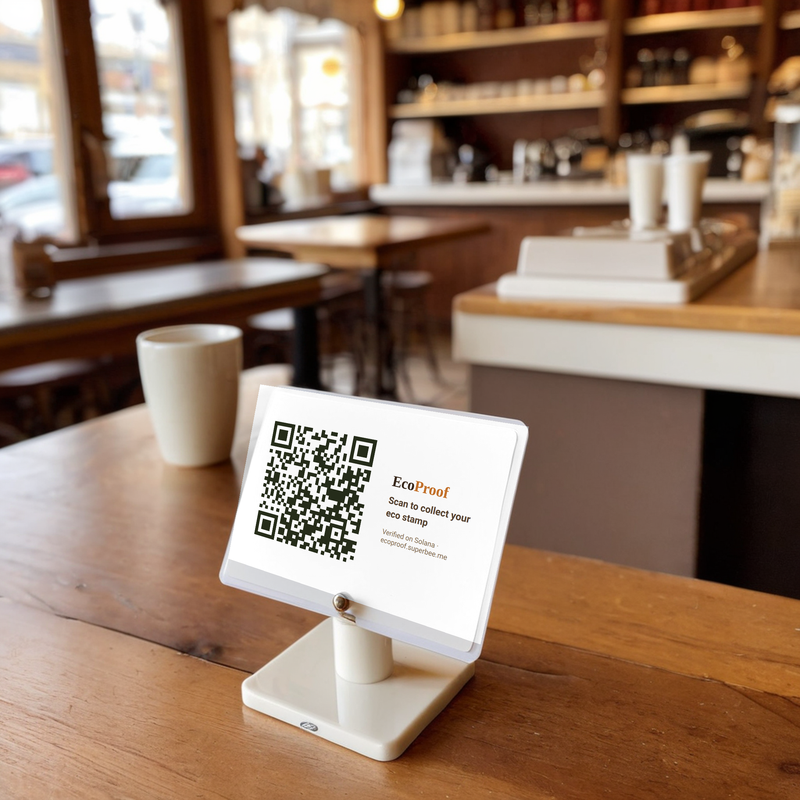
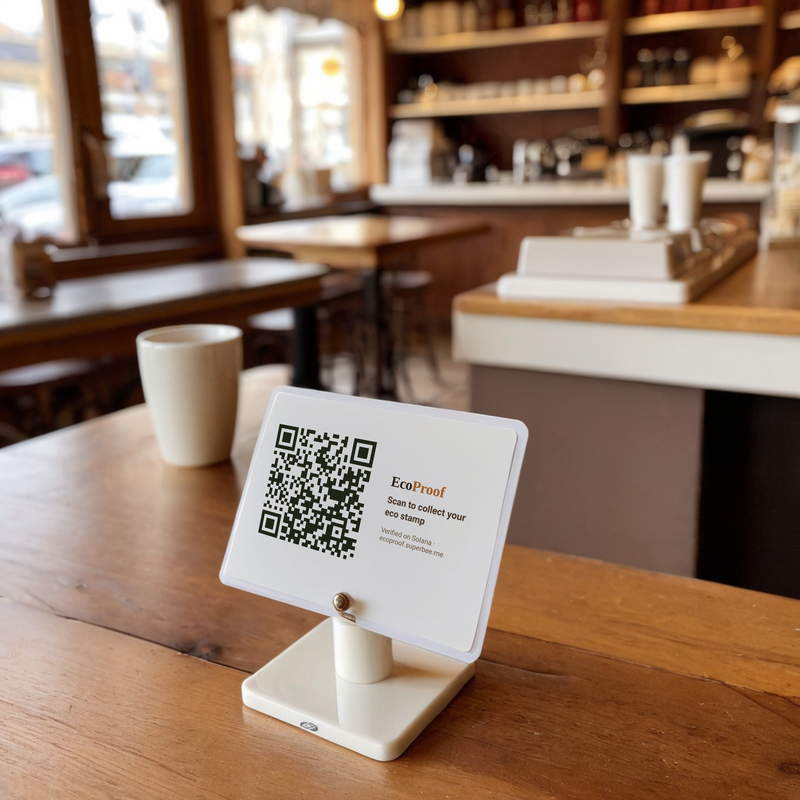
connect step: QR and text printed onto the stand face, no card background

Changed region(s): [[0.2812, 0.4688, 0.6562, 0.8125]]

diff --git a/art/steps/connect/compose2.py b/art/steps/connect/compose2.py
@@ -7,7 +7,7 @@ D = pathlib.Path(__file__).parent
 SS = 2
 SCENES = {
     # the QR card alone on the counter stand
-    "105": {"scene": "r1_105.png", "card": [(333,492),(677,546),(615,825),(292,715)], "card_art": "card.png", "screen": None, "crop": (0,0,1024,1024)},
+    "105": {"scene": "r1_105.png", "card": [(340,498),(668,549),(608,818),(298,712)], "card_art": "card.png", "card_mode": "multiply", "screen": None, "crop": (0,0,1024,1024)},
     # the plugins page on the tablet POS, the QR card flat on the counter
     "103": {"scene": "r1_103.png", "screen": [(400,490),(592,492),(513,613),(333,593)], "card": [(550,797),(838,790),(832,873),(563,870)], "card_art": "card.png", "crop": (0,0,1024,1024)},
 }
@@ -26,8 +26,12 @@ if S["screen"]:
     l = np.asarray(place(Image.open(D/"wp_plugins_fit.png").convert("RGB"), S["screen"]), np.float32); a = l[...,3:4]/255
     out = out*(1-a) + (l[...,:3]*0.94 + 255*0.06*lum[...,None])*a
 l = np.asarray(place(Image.open(D/S["card_art"]).convert("RGB"), S["card"]), np.float32); a = l[...,3:4]/255
-shade = (lum*255/np.percentile((lum*255)[l[...,3]>0], 95)).clip(0,1)[...,None]
-out = out*(1-a) + l[...,:3]*(0.35+0.65*shade)*a
+if S.get("card_mode") == "multiply":
+    # print the QR and text straight onto the stand's own white face: the card's white multiplies to nothing, only the ink darkens the photo
+    out = out*(1-a) + out*(l[...,:3]/255)*a
+else:
+    shade = (lum*255/np.percentile((lum*255)[l[...,3]>0], 95)).clip(0,1)[...,None]
+    out = out*(1-a) + l[...,:3]*(0.35+0.65*shade)*a
 big = Image.fromarray(out.clip(0,255).astype(np.uint8))
 x0,y0,x1,y1 = S["crop"]
 big.crop((x0*SS,y0*SS,x1*SS,y1*SS)).resize((800,800), Image.LANCZOS).save(D/f"connect_{key}.png")
